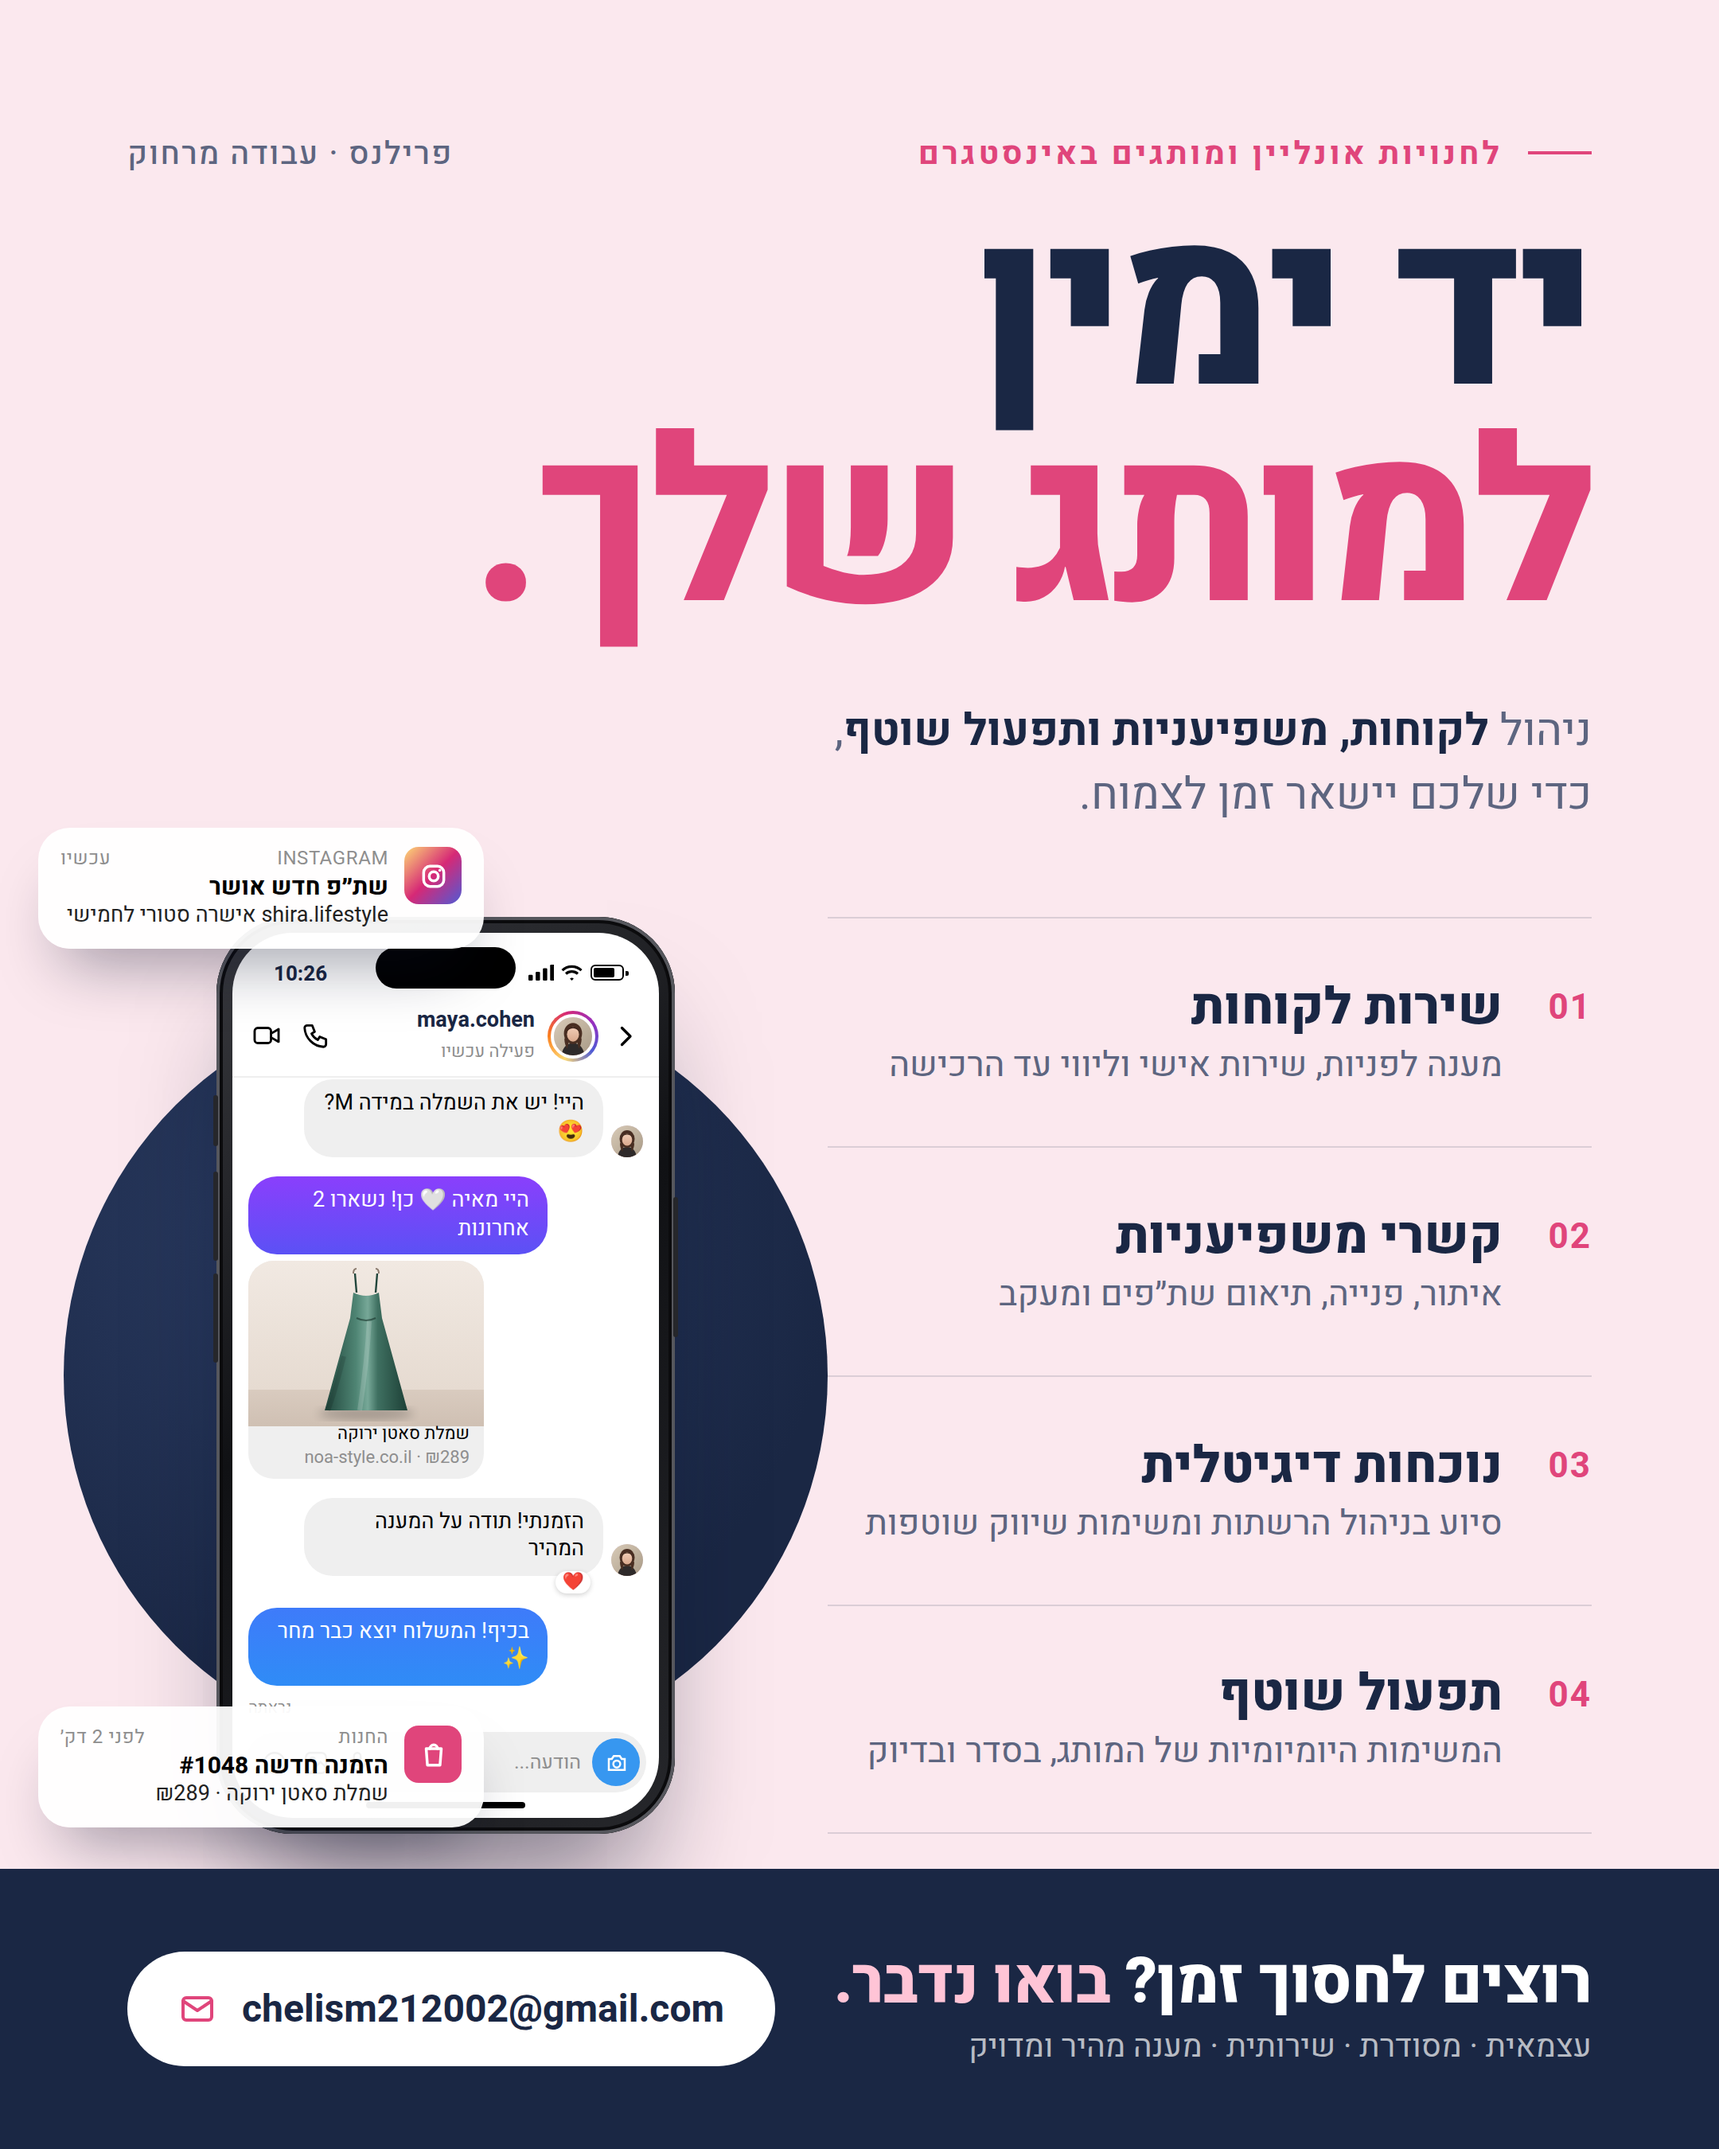
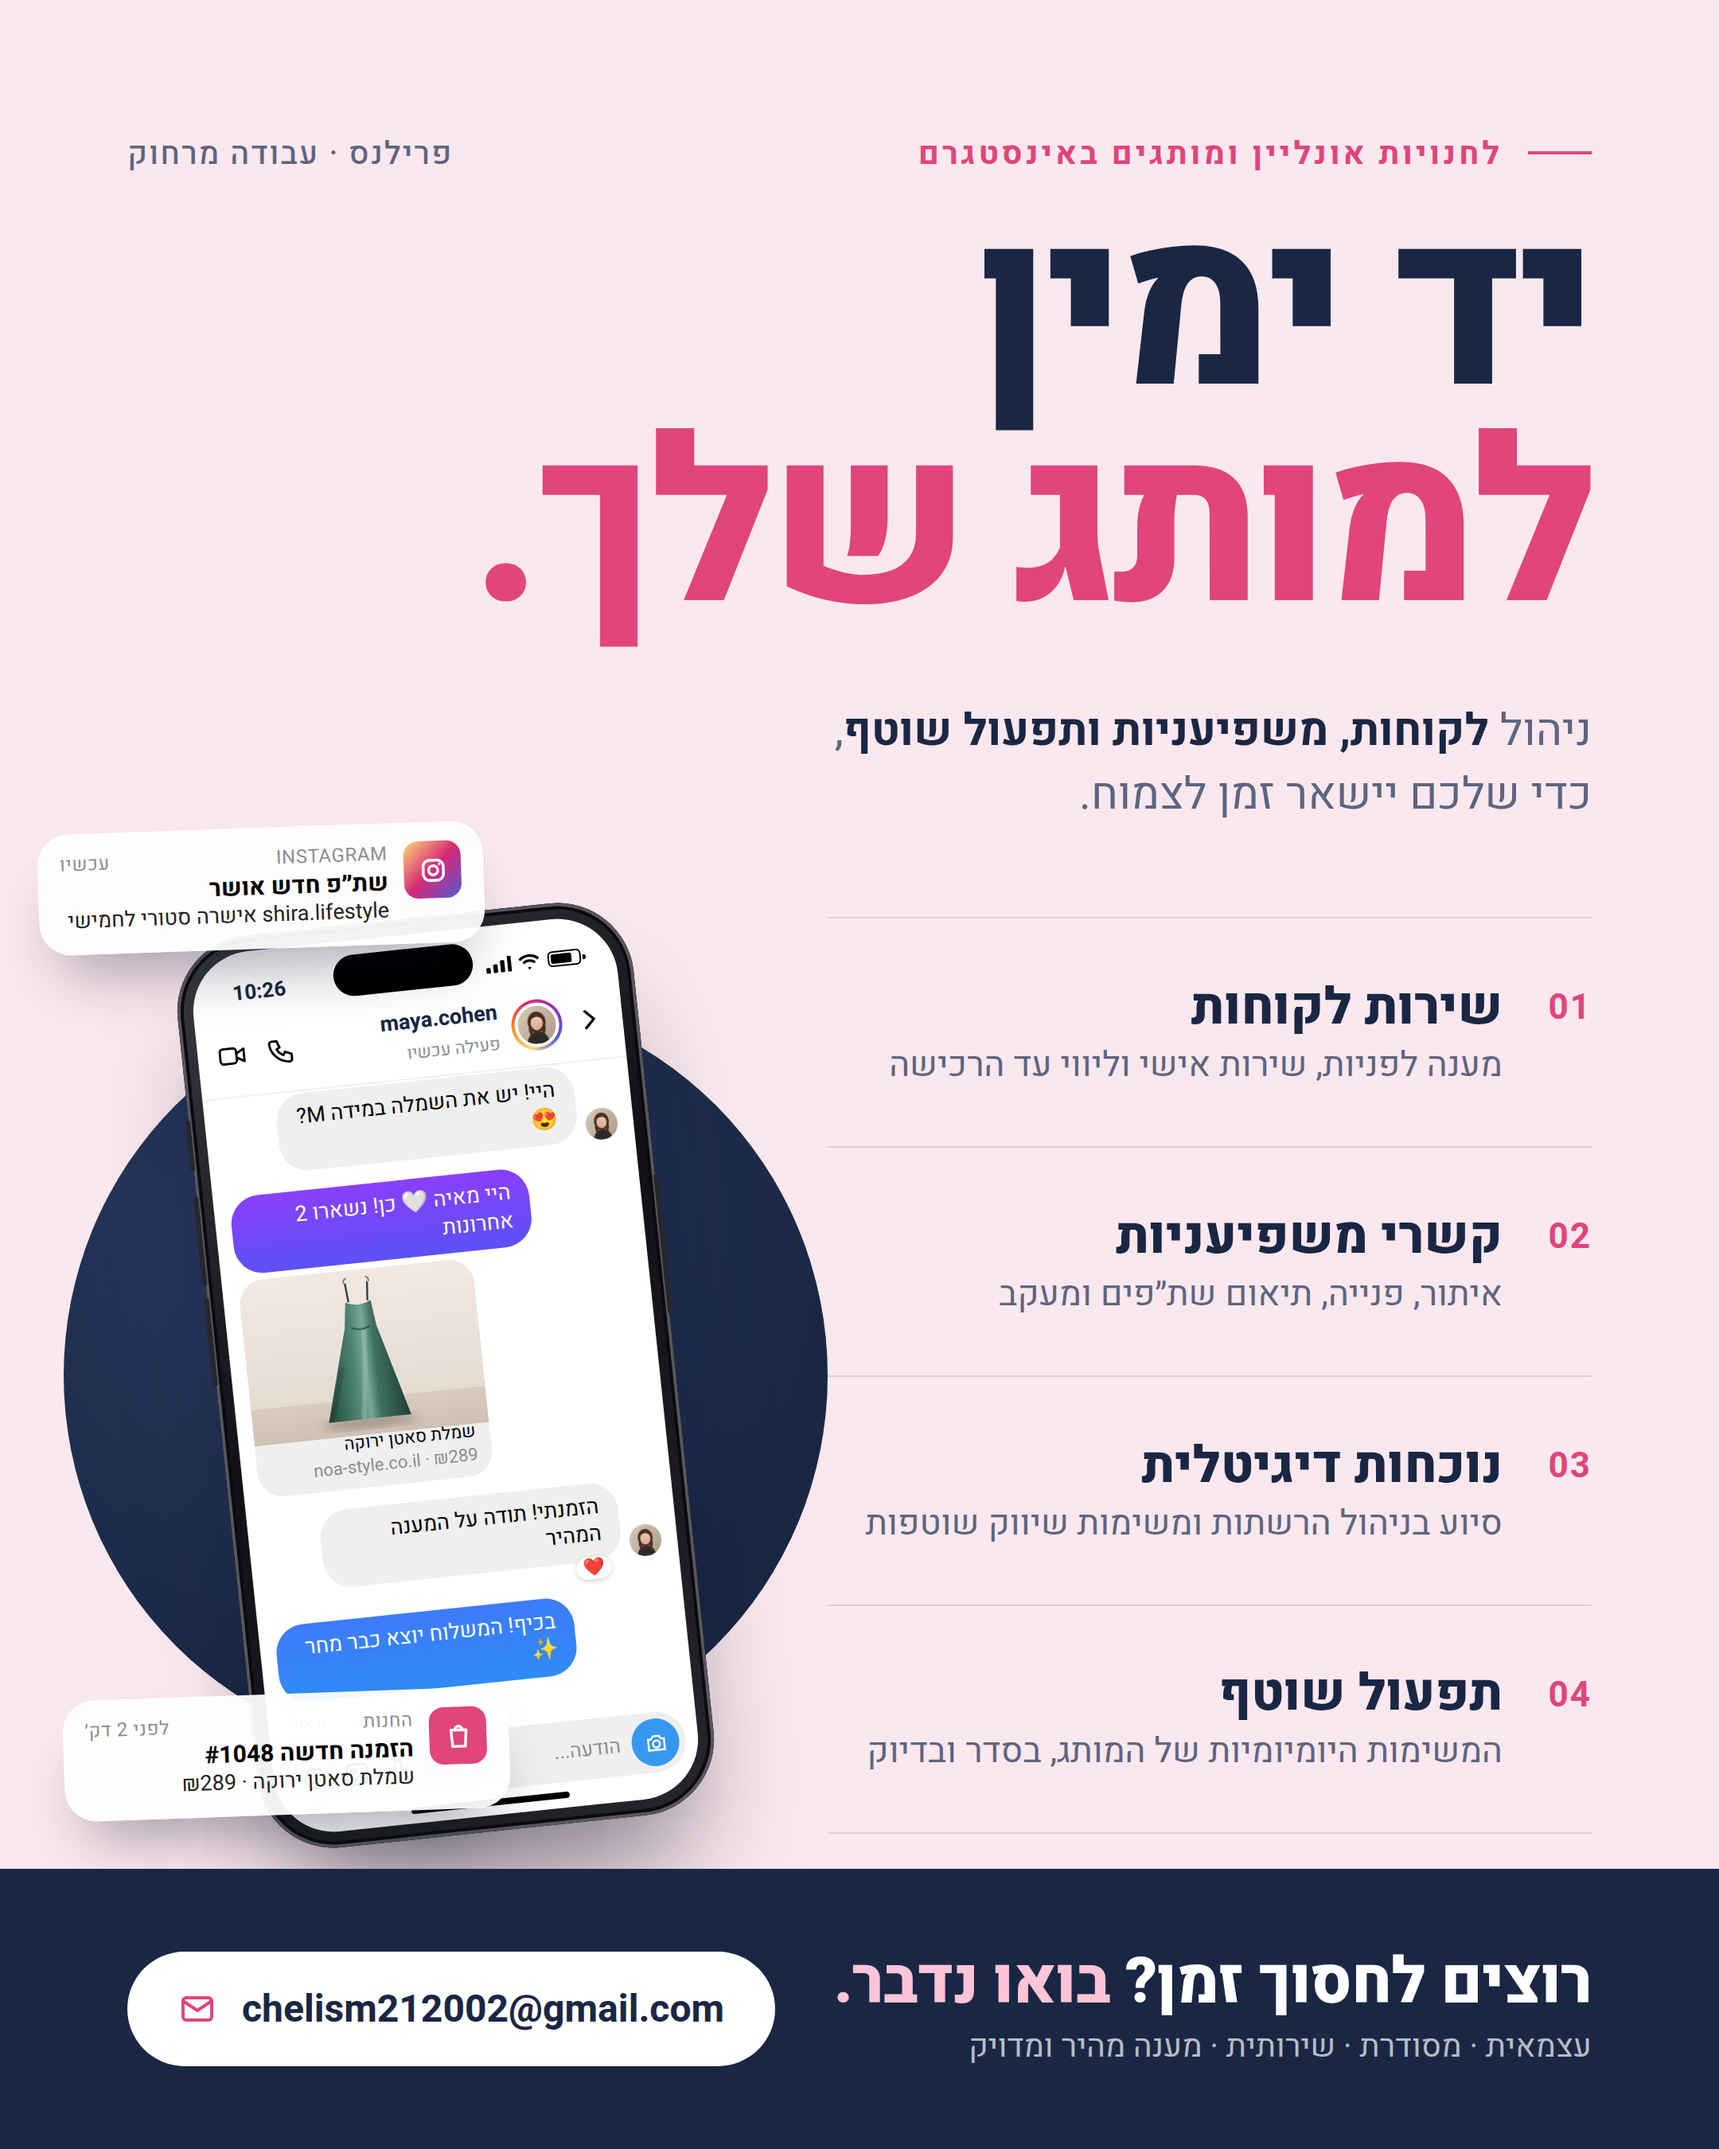
Tilt phone mockup 6° to the left
Claude-Session: https://claude.ai/code/session_01HXmfXavvNP6H6rES4kBgpe

Changed region(s): [[0.0, 0.3733, 0.4343, 0.8711]]

diff --git a/freelancer-post/post.html b/freelancer-post/post.html
@@ -51,7 +51,7 @@
   .disc{left:40px;top:624px;width:480px;height:480px;border-radius:50%;
         background:radial-gradient(circle at 35% 30%,var(--navy-2),var(--navy) 70%)}
 
-  .phone{left:136px;top:576px;width:288px;height:576px;border-radius:48px;padding:10px;
+  .phone{left:136px;top:576px;width:288px;height:576px;border-radius:48px;padding:10px;transform:rotate(-6deg);transform-origin:50% 50%;
          background:linear-gradient(145deg,#3a3b40,#101114 45%,#26272b);
          box-shadow:0 48px 72px -24px rgba(10,16,40,.55),inset 0 0 0 2px #56575d,inset 0 0 0 4px #0b0b0d}
   .sb{position:absolute;width:3px;border-radius:2px;background:#26272b}
@@ -113,9 +113,9 @@
   .note .top{display:flex;justify-content:space-between;font-size:12px;color:#8e8e8e;letter-spacing:.3px}
   .note b{display:block;font-size:15px;font-weight:700;color:#000;margin-top:1px}
   .note p{font-size:13.5px;color:#222}
-  .n1{left:24px;top:520px}
+  .n1{left:24px;top:520px;transform:rotate(-2deg)}
   .n1 .app{background:linear-gradient(135deg,#FEDA75,#D62976 50%,#4F5BD5)}
-  .n2{left:24px;top:1072px}
+  .n2{left:40px;top:1064px;transform:rotate(-2deg)}
   .n2 .app{background:var(--accent)}
 
   /* ---------- FOOTER (y 1174–1350, 176 tall) ---------- */
